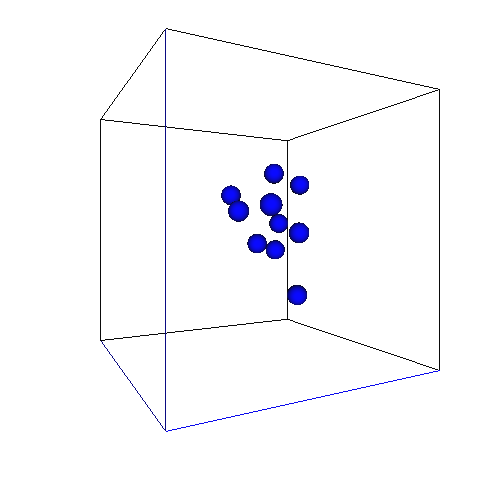
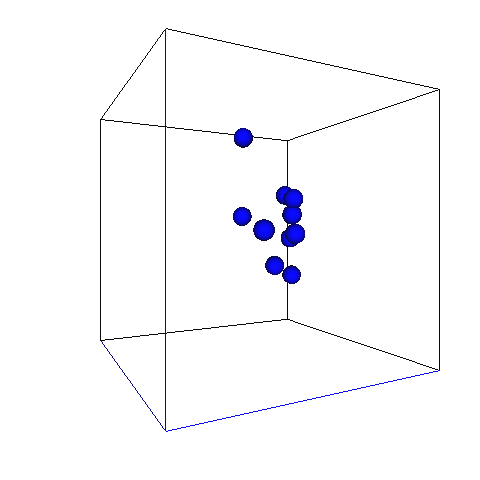
-

Changed region(s): [[0.4375, 0.3438, 0.6562, 0.6562], [0.4688, 0.25, 0.5312, 0.3125]]

diff --git a/phy/phy_007_sim/phy_007_sim.html b/phy/phy_007_sim/phy_007_sim.html
@@ -61,8 +61,9 @@ dönüşmesine her koşulda bakmıyoruz, duvarlar ve parçacıklar arası etkile
 hız üzerinde uyguluyoruz. Topların birbirine çarpma sonucu hız vektörlerinin
 hesabı [4]'te.</p>
 <p>Kodlama notu, çarpışma hesabı için her parçacığın diğer parçacığa yakınlık
-kontrolü pahalı olabilirdi, bunun için böleç tekniği kullanıldı [3]. Genel
-grafik yöntemi şurada [1] işlendi.</p>
+kontrolü pahalı olursa, daha fazla parçacık için mesela, bunun için böleç
+tekniği kullanılabilir [3].</p>
+<p>Genel grafik yöntemi şurada [1] işlendi.</p>
 <pre><code class="python">from OpenGL.GL import *
 from OpenGL.GLU import *
 from OpenGL.GLUT import *
@@ -81,13 +82,6 @@ B = 10 # top
 l = 0.2 # bolec kutu buyuklugu
 n = B*20 # bolec sozluk buyuklugu
 img = True
-
-def spatial_hash(x):
-    &quot;&quot;&quot;
-    x = [x0,x1,x2] uc boyutlu kordinatlari icin bir bolec (hash) degeri uret
-    &quot;&quot;&quot;
-    ix,iy,iz = np.floor((x[0]+2.0)/l), np.floor((x[1]+2.0)/l), np.floor((x[2]+2.0)/l)
-    return (int(ix*p1) ^ int(iy*p2) ^ int(iz*p3)) % n
 
 class Simulation:
     def __init__(self):
@@ -160,26 +154,21 @@ class Simulation:
                 if b['pos'][2] &lt; 0:
                     b['pos'][2] = self.mmin
 
-        for j,b in enumerate(self.balls):
-            self.geo_hash_list[spatial_hash(self.balls[j]['pos'])].append(self.balls[j])
-
         vDone = {}
         for j,b in enumerate(self.balls):
-            if (len(self.geo_hash_list[spatial_hash(self.balls[j]['pos'])])&gt;1):
-                otherList = self.geo_hash_list[spatial_hash(self.balls[j]['pos'])]
-                for other in otherList:
-                    if (other['i'] != b['i'] and b['i'] not in vDone and other['i'] not in vDone):
-                        dist = lin.norm(other['pos']-b['pos'])
-                        if (dist &lt; (2*self.r)):
-                            #print ('collision')
-                            vrel = b['v']-other['v']
-                            n = (other['pos']-b['pos']) / dist
-                            vnorm = np.dot(vrel,n)*n
-                            #print (vnorm)
-                            b['v'] = b['v'] - vnorm
-                            other['v'] = other['v'] + vnorm                            
-                            vDone[b['i']] = 1
-                            vDone[other['i']] = 1
+            for other in self.balls:
+                if (other['i'] != b['i'] and b['i'] not in vDone and other['i'] not in vDone):
+                    dist = lin.norm(other['pos']-b['pos'])
+                    if (dist &lt; (2*self.r)):
+                        #print ('collision')
+                        vrel = b['v']-other['v']
+                        n = (other['pos']-b['pos']) / dist
+                        vnorm = np.dot(vrel,n)*n
+                        #print (vnorm)
+                        b['v'] = b['v'] - vnorm
+                        other['v'] = other['v'] + vnorm                            
+                        vDone[b['i']] = 1
+                        vDone[other['i']] = 1
 
 
 
@@ -244,7 +233,7 @@ if __name__ == '__main__':
 <p>[1] Bayramlı, <em>OpenGL, PyOpenGL</em>, <a href="https://burakbayramli.github.io/dersblog/sk/2020/08/pyopengl.html">https://burakbayramli.github.io/dersblog/sk/2020/08/pyopengl.html</a></p>
 <p>[2] Bayramlı, <em>Simulasyon 1 Animasyon</em>,
     <a href="https://github.com/burakbayramli/classnotes/blob/master/phy/phy_007_sim/balls1.gif?raw=true">https://github.com/burakbayramli/classnotes/blob/master/phy/phy_007_sim/balls1.gif?raw=true</a></p>
-<p>[3] Bayramlı, Bilgisayar Bilim, <em>En Yakın k-Komşu (k-Nearest Neighbor), Geometrik Yakınlık Hesabı</em> </p>
+<p>[3] Bayramlı, <em>Bilgisayar Bilim, Geometrik Anahtarlama (Spatial Hashing) ve Izgara (Grid) ile En Yakın Noktaları Bulmak</em></p>
 <p>[4] Bayramlı, Fizik, <em>Temel Fizik 2, Dönüşler, Basınç, Çarpışma</em></p>
 <p>[5] Müller, <em>Fluid Simulation SIGGRAPH 2007 Course Notes</em>,</p>
 <p>[6] <em>Visual Interactive Simulation (Spring 15)</em>,

diff --git a/phy/phy_007_sim/simulasyon.html b/phy/phy_007_sim/simulasyon.html
@@ -61,8 +61,9 @@ dönüşmesine her koşulda bakmıyoruz, duvarlar ve parçacıklar arası etkile
 hız üzerinde uyguluyoruz. Topların birbirine çarpma sonucu hız vektörlerinin
 hesabı [4]'te.</p>
 <p>Kodlama notu, çarpışma hesabı için her parçacığın diğer parçacığa yakınlık
-kontrolü pahalı olabilirdi, bunun için böleç tekniği kullanıldı [3]. Genel
-grafik yöntemi şurada [1] işlendi.</p>
+kontrolü pahalı olursa, daha fazla parçacık için mesela, bunun için böleç
+tekniği kullanılabilir [3].</p>
+<p>Genel grafik yöntemi şurada [1] işlendi.</p>
 <pre><code class="python">from OpenGL.GL import *
 from OpenGL.GLU import *
 from OpenGL.GLUT import *
@@ -81,13 +82,6 @@ B = 10 # top
 l = 0.2 # bolec kutu buyuklugu
 n = B*20 # bolec sozluk buyuklugu
 img = True
-
-def spatial_hash(x):
-    &quot;&quot;&quot;
-    x = [x0,x1,x2] uc boyutlu kordinatlari icin bir bolec (hash) degeri uret
-    &quot;&quot;&quot;
-    ix,iy,iz = np.floor((x[0]+2.0)/l), np.floor((x[1]+2.0)/l), np.floor((x[2]+2.0)/l)
-    return (int(ix*p1) ^ int(iy*p2) ^ int(iz*p3)) % n
 
 class Simulation:
     def __init__(self):
@@ -160,26 +154,21 @@ class Simulation:
                 if b['pos'][2] &lt; 0:
                     b['pos'][2] = self.mmin
 
-        for j,b in enumerate(self.balls):
-            self.geo_hash_list[spatial_hash(self.balls[j]['pos'])].append(self.balls[j])
-
         vDone = {}
         for j,b in enumerate(self.balls):
-            if (len(self.geo_hash_list[spatial_hash(self.balls[j]['pos'])])&gt;1):
-                otherList = self.geo_hash_list[spatial_hash(self.balls[j]['pos'])]
-                for other in otherList:
-                    if (other['i'] != b['i'] and b['i'] not in vDone and other['i'] not in vDone):
-                        dist = lin.norm(other['pos']-b['pos'])
-                        if (dist &lt; (2*self.r)):
-                            #print ('collision')
-                            vrel = b['v']-other['v']
-                            n = (other['pos']-b['pos']) / dist
-                            vnorm = np.dot(vrel,n)*n
-                            #print (vnorm)
-                            b['v'] = b['v'] - vnorm
-                            other['v'] = other['v'] + vnorm                            
-                            vDone[b['i']] = 1
-                            vDone[other['i']] = 1
+            for other in self.balls:
+                if (other['i'] != b['i'] and b['i'] not in vDone and other['i'] not in vDone):
+                    dist = lin.norm(other['pos']-b['pos'])
+                    if (dist &lt; (2*self.r)):
+                        #print ('collision')
+                        vrel = b['v']-other['v']
+                        n = (other['pos']-b['pos']) / dist
+                        vnorm = np.dot(vrel,n)*n
+                        #print (vnorm)
+                        b['v'] = b['v'] - vnorm
+                        other['v'] = other['v'] + vnorm                            
+                        vDone[b['i']] = 1
+                        vDone[other['i']] = 1
 
 
 
@@ -244,7 +233,7 @@ if __name__ == '__main__':
 <p>[1] Bayramlı, <em>OpenGL, PyOpenGL</em>, <a href="https://burakbayramli.github.io/dersblog/sk/2020/08/pyopengl.html">https://burakbayramli.github.io/dersblog/sk/2020/08/pyopengl.html</a></p>
 <p>[2] Bayramlı, <em>Simulasyon 1 Animasyon</em>,
     <a href="https://github.com/burakbayramli/classnotes/blob/master/phy/phy_007_sim/balls1.gif?raw=true">https://github.com/burakbayramli/classnotes/blob/master/phy/phy_007_sim/balls1.gif?raw=true</a></p>
-<p>[3] Bayramlı, Bilgisayar Bilim, <em>En Yakın k-Komşu (k-Nearest Neighbor), Geometrik Yakınlık Hesabı</em> </p>
+<p>[3] Bayramlı, <em>Bilgisayar Bilim, Geometrik Anahtarlama (Spatial Hashing) ve Izgara (Grid) ile En Yakın Noktaları Bulmak</em></p>
 <p>[4] Bayramlı, Fizik, <em>Temel Fizik 2, Dönüşler, Basınç, Çarpışma</em></p>
 <p>[5] Müller, <em>Fluid Simulation SIGGRAPH 2007 Course Notes</em>,</p>
 <p>[6] <em>Visual Interactive Simulation (Spring 15)</em>,

diff --git a/phy/phy_007_sim/sim.py b/phy/phy_007_sim/sim.py
@@ -17,13 +17,6 @@ l = 0.2 # bolec kutu buyuklugu
 n = B*20 # bolec sozluk buyuklugu
 img = True
 
-def spatial_hash(x):
-    """
-    x = [x0,x1,x2] uc boyutlu kordinatlari icin bir bolec (hash) degeri uret
-    """
-    ix,iy,iz = np.floor((x[0]+2.0)/l), np.floor((x[1]+2.0)/l), np.floor((x[2]+2.0)/l)
-    return (int(ix*p1) ^ int(iy*p2) ^ int(iz*p3)) % n
-
 class Simulation:
     def __init__(self):
         self.geo_hash_list = None
@@ -95,26 +88,21 @@ class Simulation:
                 if b['pos'][2] < 0:
                     b['pos'][2] = self.mmin
 
-        for j,b in enumerate(self.balls):
-            self.geo_hash_list[spatial_hash(self.balls[j]['pos'])].append(self.balls[j])
-
         vDone = {}
         for j,b in enumerate(self.balls):
-            if (len(self.geo_hash_list[spatial_hash(self.balls[j]['pos'])])>1):
-                otherList = self.geo_hash_list[spatial_hash(self.balls[j]['pos'])]
-                for other in otherList:
-                    if (other['i'] != b['i'] and b['i'] not in vDone and other['i'] not in vDone):
-                        dist = lin.norm(other['pos']-b['pos'])
-                        if (dist < (2*self.r)):
-                            #print ('collision')
-                            vrel = b['v']-other['v']
-                            n = (other['pos']-b['pos']) / dist
-                            vnorm = np.dot(vrel,n)*n
-                            #print (vnorm)
-                            b['v'] = b['v'] - vnorm
-                            other['v'] = other['v'] + vnorm                            
-                            vDone[b['i']] = 1
-                            vDone[other['i']] = 1
+            for other in self.balls:
+                if (other['i'] != b['i'] and b['i'] not in vDone and other['i'] not in vDone):
+                    dist = lin.norm(other['pos']-b['pos'])
+                    if (dist < (2*self.r)):
+                        #print ('collision')
+                        vrel = b['v']-other['v']
+                        n = (other['pos']-b['pos']) / dist
+                        vnorm = np.dot(vrel,n)*n
+                        #print (vnorm)
+                        b['v'] = b['v'] - vnorm
+                        other['v'] = other['v'] + vnorm                            
+                        vDone[b['i']] = 1
+                        vDone[other['i']] = 1
                             
             
             

diff --git a/phy/phy_007_sim/phy_007_sim.tex b/phy/phy_007_sim/phy_007_sim.tex
@@ -49,8 +49,10 @@ hız üzerinde uyguluyoruz. Topların birbirine çarpma sonucu hız vektörlerin
 hesabı [4]'te.
 
 Kodlama notu, çarpışma hesabı için her parçacığın diğer parçacığa yakınlık
-kontrolü pahalı olabilirdi, bunun için böleç tekniği kullanıldı [3]. Genel
-grafik yöntemi şurada [1] işlendi.
+kontrolü pahalı olursa, daha fazla parçacık için mesela, bunun için böleç
+tekniği kullanılabilir [3].
+
+Genel grafik yöntemi şurada [1] işlendi.
 
 \inputminted[fontsize=\footnotesize]{python}{sim.py}
 
@@ -74,7 +76,7 @@ Kaynaklar
 [2] Bayramlı, {\em Simulasyon 1 Animasyon},
     \url{https://github.com/burakbayramli/classnotes/blob/master/phy/phy_007_sim/balls1.gif?raw=true}
 
-[3] Bayramlı, Bilgisayar Bilim, {\em En Yakın k-Komşu (k-Nearest Neighbor), Geometrik Yakınlık Hesabı} 
+[3] Bayramlı, {\em Bilgisayar Bilim, Geometrik Anahtarlama (Spatial Hashing) ve Izgara (Grid) ile En Yakın Noktaları Bulmak}
 
 [4] Bayramlı, Fizik, {\em Temel Fizik 2, Dönüşler, Basınç, Çarpışma}
 
